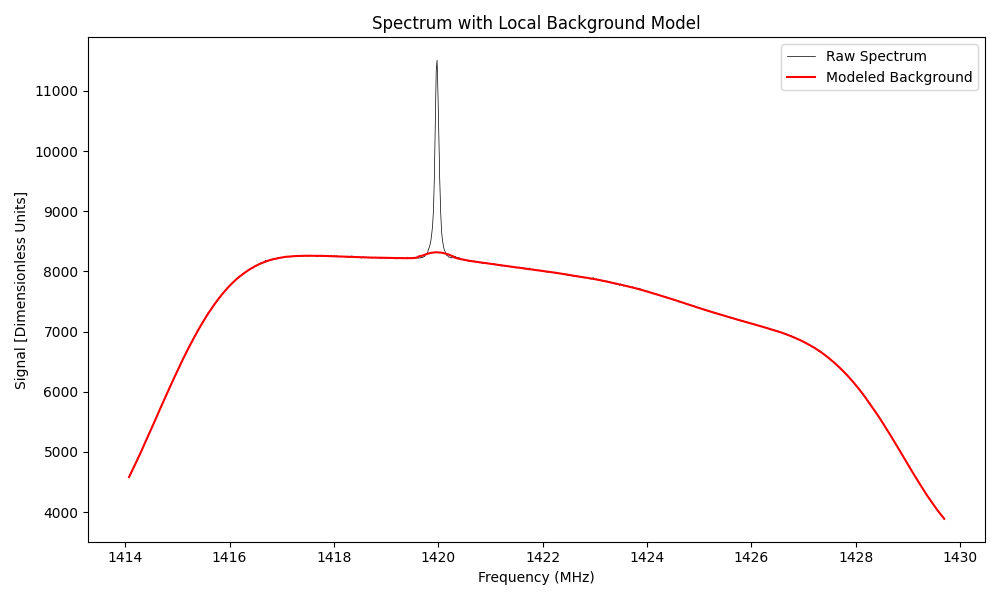
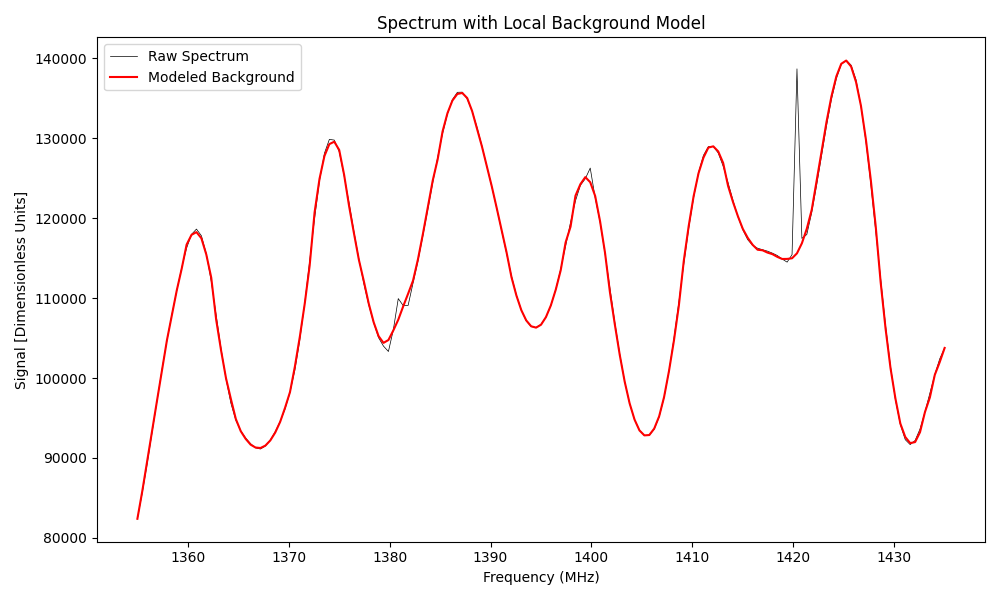
updated runconfig

diff --git a/pyrc/pyrc/spectral_rfi_removal.py b/pyrc/pyrc/spectral_rfi_removal.py
@@ -10,6 +10,9 @@ import subprocess
 import json
 import os
 from pathlib import Path
+import stats
+import sys
+from gain_calibration_validation import Validation
 
 including_frequency_ranges = None
 excluding_frequency_ranges = None
@@ -19,8 +22,19 @@ excluding_time_ranges = None
 repo_root = Path("/skynet/radio-cartographer")
 script_dir = repo_root / "pyrc" / "pyrc"
 
-file_path = script_dir / "spectral_testing" / "0149927_validated.fits"
-s = Spectrum(str(file_path), 0, 1,
+file_path = script_dir / "spectral_testing" / "0152191.fits"
+#file_path = "testing/test_files/Skynet_56870_survey_55_ra2_9650_10467.cybmerge2_interpolated.fits"
+print(f"Processing {file_path}...")
+
+try:
+    validator = Validation(str(file_path))
+    validated_filepath = Path(validator.validate())
+    print(f"Validated file created: {validated_filepath}")
+except Exception as e:
+    print(f"Failed to validate {file_path}: {e}")
+    sys.exit(1)
+
+s = Spectrum(str(validated_filepath), 0, 0,
              including_frequency_ranges, excluding_frequency_ranges,
              including_time_ranges, excluding_time_ranges)
 spectrum = s.spectrum()
@@ -33,8 +47,8 @@ freqs = freqs[sort_idx]
 intensities = intensities[sort_idx]
 
 scatter = np.std(np.diff(intensities)) / np.sqrt(2.0)
-baseline_scale = abs((freqs[-1] - freqs[0]) * 0.05)
-
+#baseline_scale = abs((freqs[-1] - freqs[0]) * 0.05) #lband scale
+baseline_scale = abs((freqs[-1] - freqs[0]) * 0.02)
 input_data = {
     "frequencies": freqs.tolist(),
     "intensities": intensities.tolist(),
@@ -60,21 +74,66 @@ subprocess.run(
 
 with open(out_json, "r") as f:
     out_data = json.load(f)
-
+plt.rcParams['xtick.labelsize'] = 18
+plt.rcParams['ytick.labelsize'] = 18
 modeled_spectrum = np.array(out_data["modeled_spectrum"])
-
-plt.figure(figsize=(10, 6))
+#raw spectrum
+plt.figure(figsize = (10, 6))
 plt.plot(freqs, intensities, color="black", label="Raw Spectrum", linewidth=0.5)
+plt.savefig("RawSpectrumxband")
+plt.close()
+
+
+plt.figure(figsize = (15, 11))
+plt.plot(freqs, intensities, color="black", label="Raw Spectrum", linewidth = 0.7)
 plt.plot(freqs, modeled_spectrum, color="red", label="Modeled Background")
-plt.xlabel("Frequency (MHz)")
-plt.ylabel("Signal [Dimensionless Units]")
-plt.title("Spectrum with Local Background Model")
-plt.legend()
+plt.xlabel("Frequency (MHz)", fontsize = 25)
+plt.ylabel("Signal [Dimensionless Units]", fontsize = 25)
+plt.title("Spectrum with Background Model", fontsize = 30)
+plt.legend(fontsize = 25)
 plt.tight_layout()
-plt.savefig("testspectrum.png")
+plt.savefig("testspectrumxband.png")
+plt.close()
 print("saved spectrum")
 
+diff = intensities - modeled_spectrum
+
+try:
+    mask, mu, gamma = stats.chauvenet(diff, clip_lo = False)
+except Exception as e:
+    print(f"Error performing RCR chauvenet: {e}")
+    mask = np.zeros_like(diff, dtype=bool)
+
+rejected_freqs = freqs[mask]
+rejected_diffs = diff[mask]
+plt.figure(figsize = (15, 9))
+plt.plot(freqs, diff, color="black", label="Difference (Raw - Model)", )
+if len(rejected_freqs) > 0:
+    plt.scatter(
+        rejected_freqs,
+        rejected_diffs,
+        color="red",
+        label=f"Rejected points ({len(rejected_freqs)})",
+        zorder=5,
+        s = 55
+    )
+print(f"rejected freqs: {rejected_freqs}")
+print(len(rejected_freqs))
+plt.xlabel("Frequency (MHz)", fontsize = 25)
+plt.ylabel("Difference", fontsize = 25)
+plt.title("Difference with Rejected Points Highlighted", fontsize = 30)
+plt.legend(fontsize = 25)
+plt.tight_layout()
+plt.savefig("xband.png")
+
+plt.close()
 if in_json.exists():
     in_json.unlink()
 if out_json.exists():
     out_json.unlink()
+if 'validated_filepath' in locals() and validated_filepath.exists():
+    try:
+        validated_filepath.unlink()
+        print(f"Cleaned up validated file: {validated_filepath}")
+    except OSError:
+        pass

diff --git a/pyrc/pyrc/spectral_rfi_removal_testing.py b/pyrc/pyrc/spectral_rfi_removal_testing.py
@@ -118,7 +118,7 @@ def process_file(fits_file):
     diff = intensities - modeled_spectrum
 
     try:
-        mask, mu, gamma = stats.chauvenet(diff, clip_lo = False)
+        mask, mu, gamma = stats.chauvenet(diff, clip_lo = False, mean_type=0, sigma_type=0)
     except Exception as e:
         print(f"Error performing RCR chauvenet: {e}")
         mask = np.zeros_like(diff, dtype=bool)
@@ -155,7 +155,7 @@ def process_file(fits_file):
     plt.tight_layout()
 
     root_name = fits_file.stem
-    plot_name = f"{root_name}_plotting.png"
+    plot_name = f"{root_name}_plotting_mean.png"
 
     # Save plots to spectral_testing/plots
     plot_dir = fits_file.parent / "plots"

diff --git a/pyrc/pyrc/stats.py b/pyrc/pyrc/stats.py
@@ -597,9 +597,9 @@ chauvenet3 = njit(nogil=True, cache=True)(chauvenet3py)
 
 
 def chauvenet(data: np.ndarray, mask: Optional[np.ndarray] = None,
-              nu: int = 0, min_vals: int = 10, mean_type: int = 0,
+              nu: int = 0, min_vals: int = 10, mean_type: int = 1,
               mean_override: Optional[Union[np.ndarray, float, int]] = None,
-              sigma_type: int = 0,
+              sigma_type: int = 1,
               sigma_override: Optional[Union[np.ndarray, float, int]] = None,
               clip_lo: bool = True, clip_hi: bool = True,
               max_iter: int = 0,
